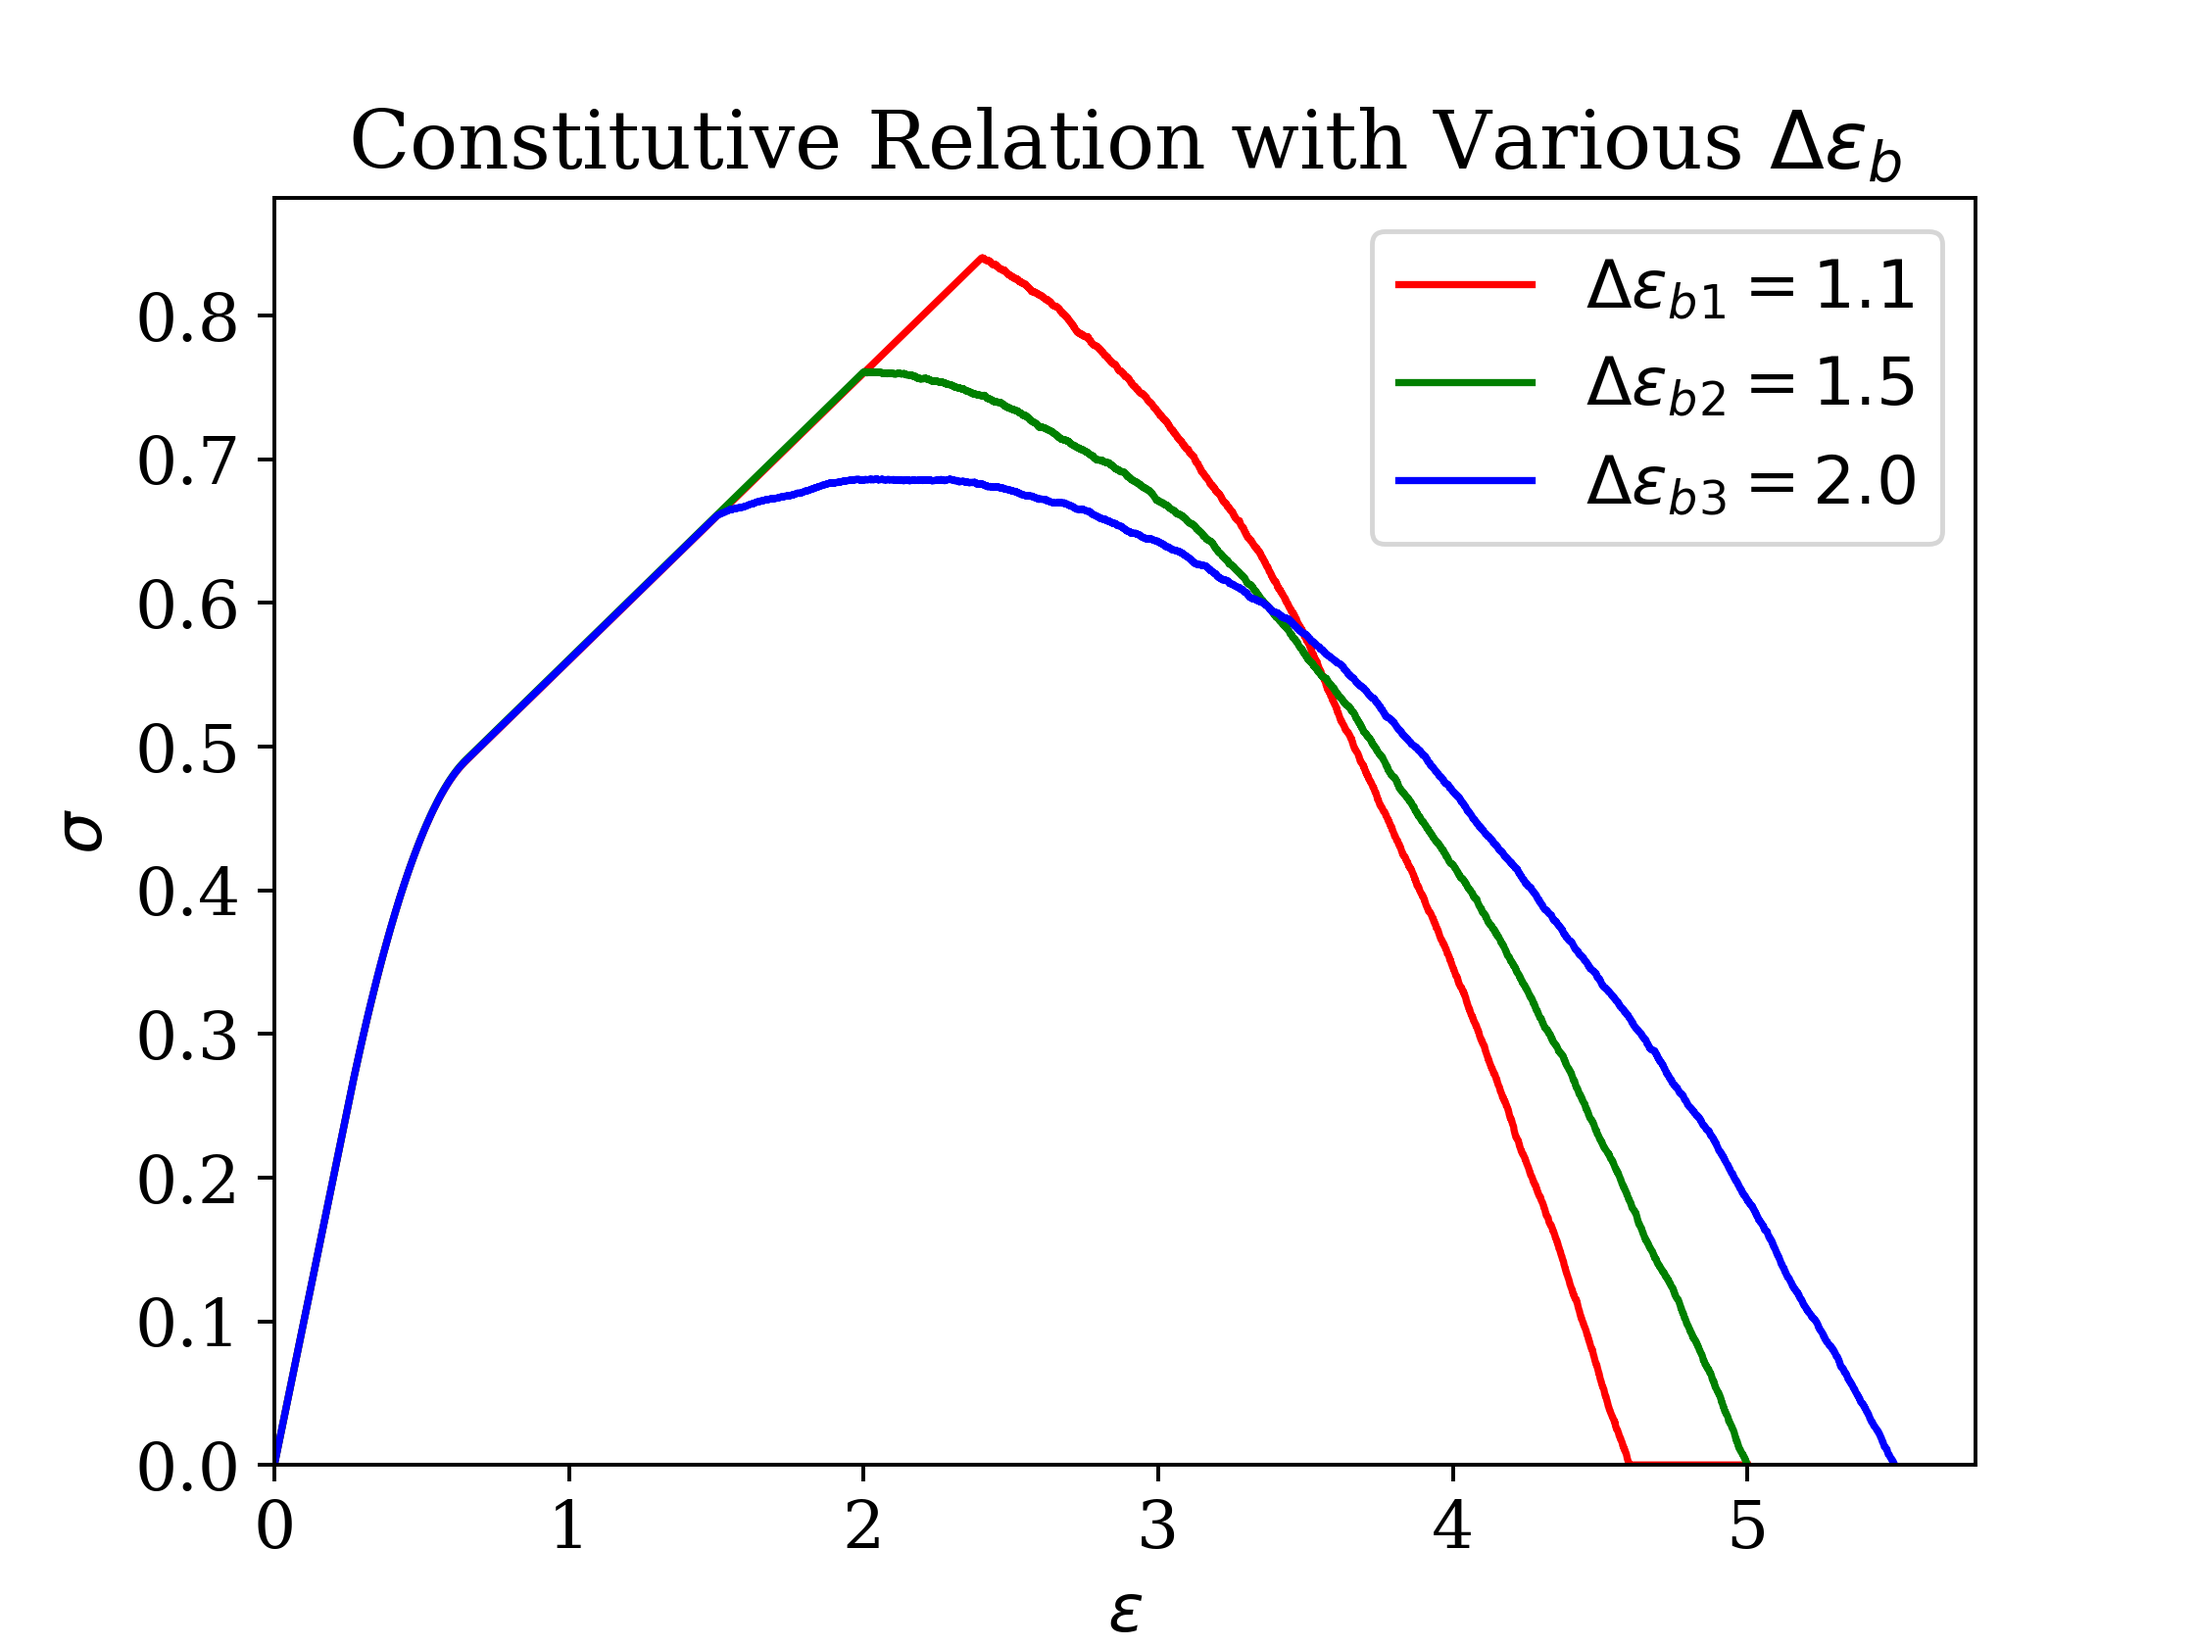
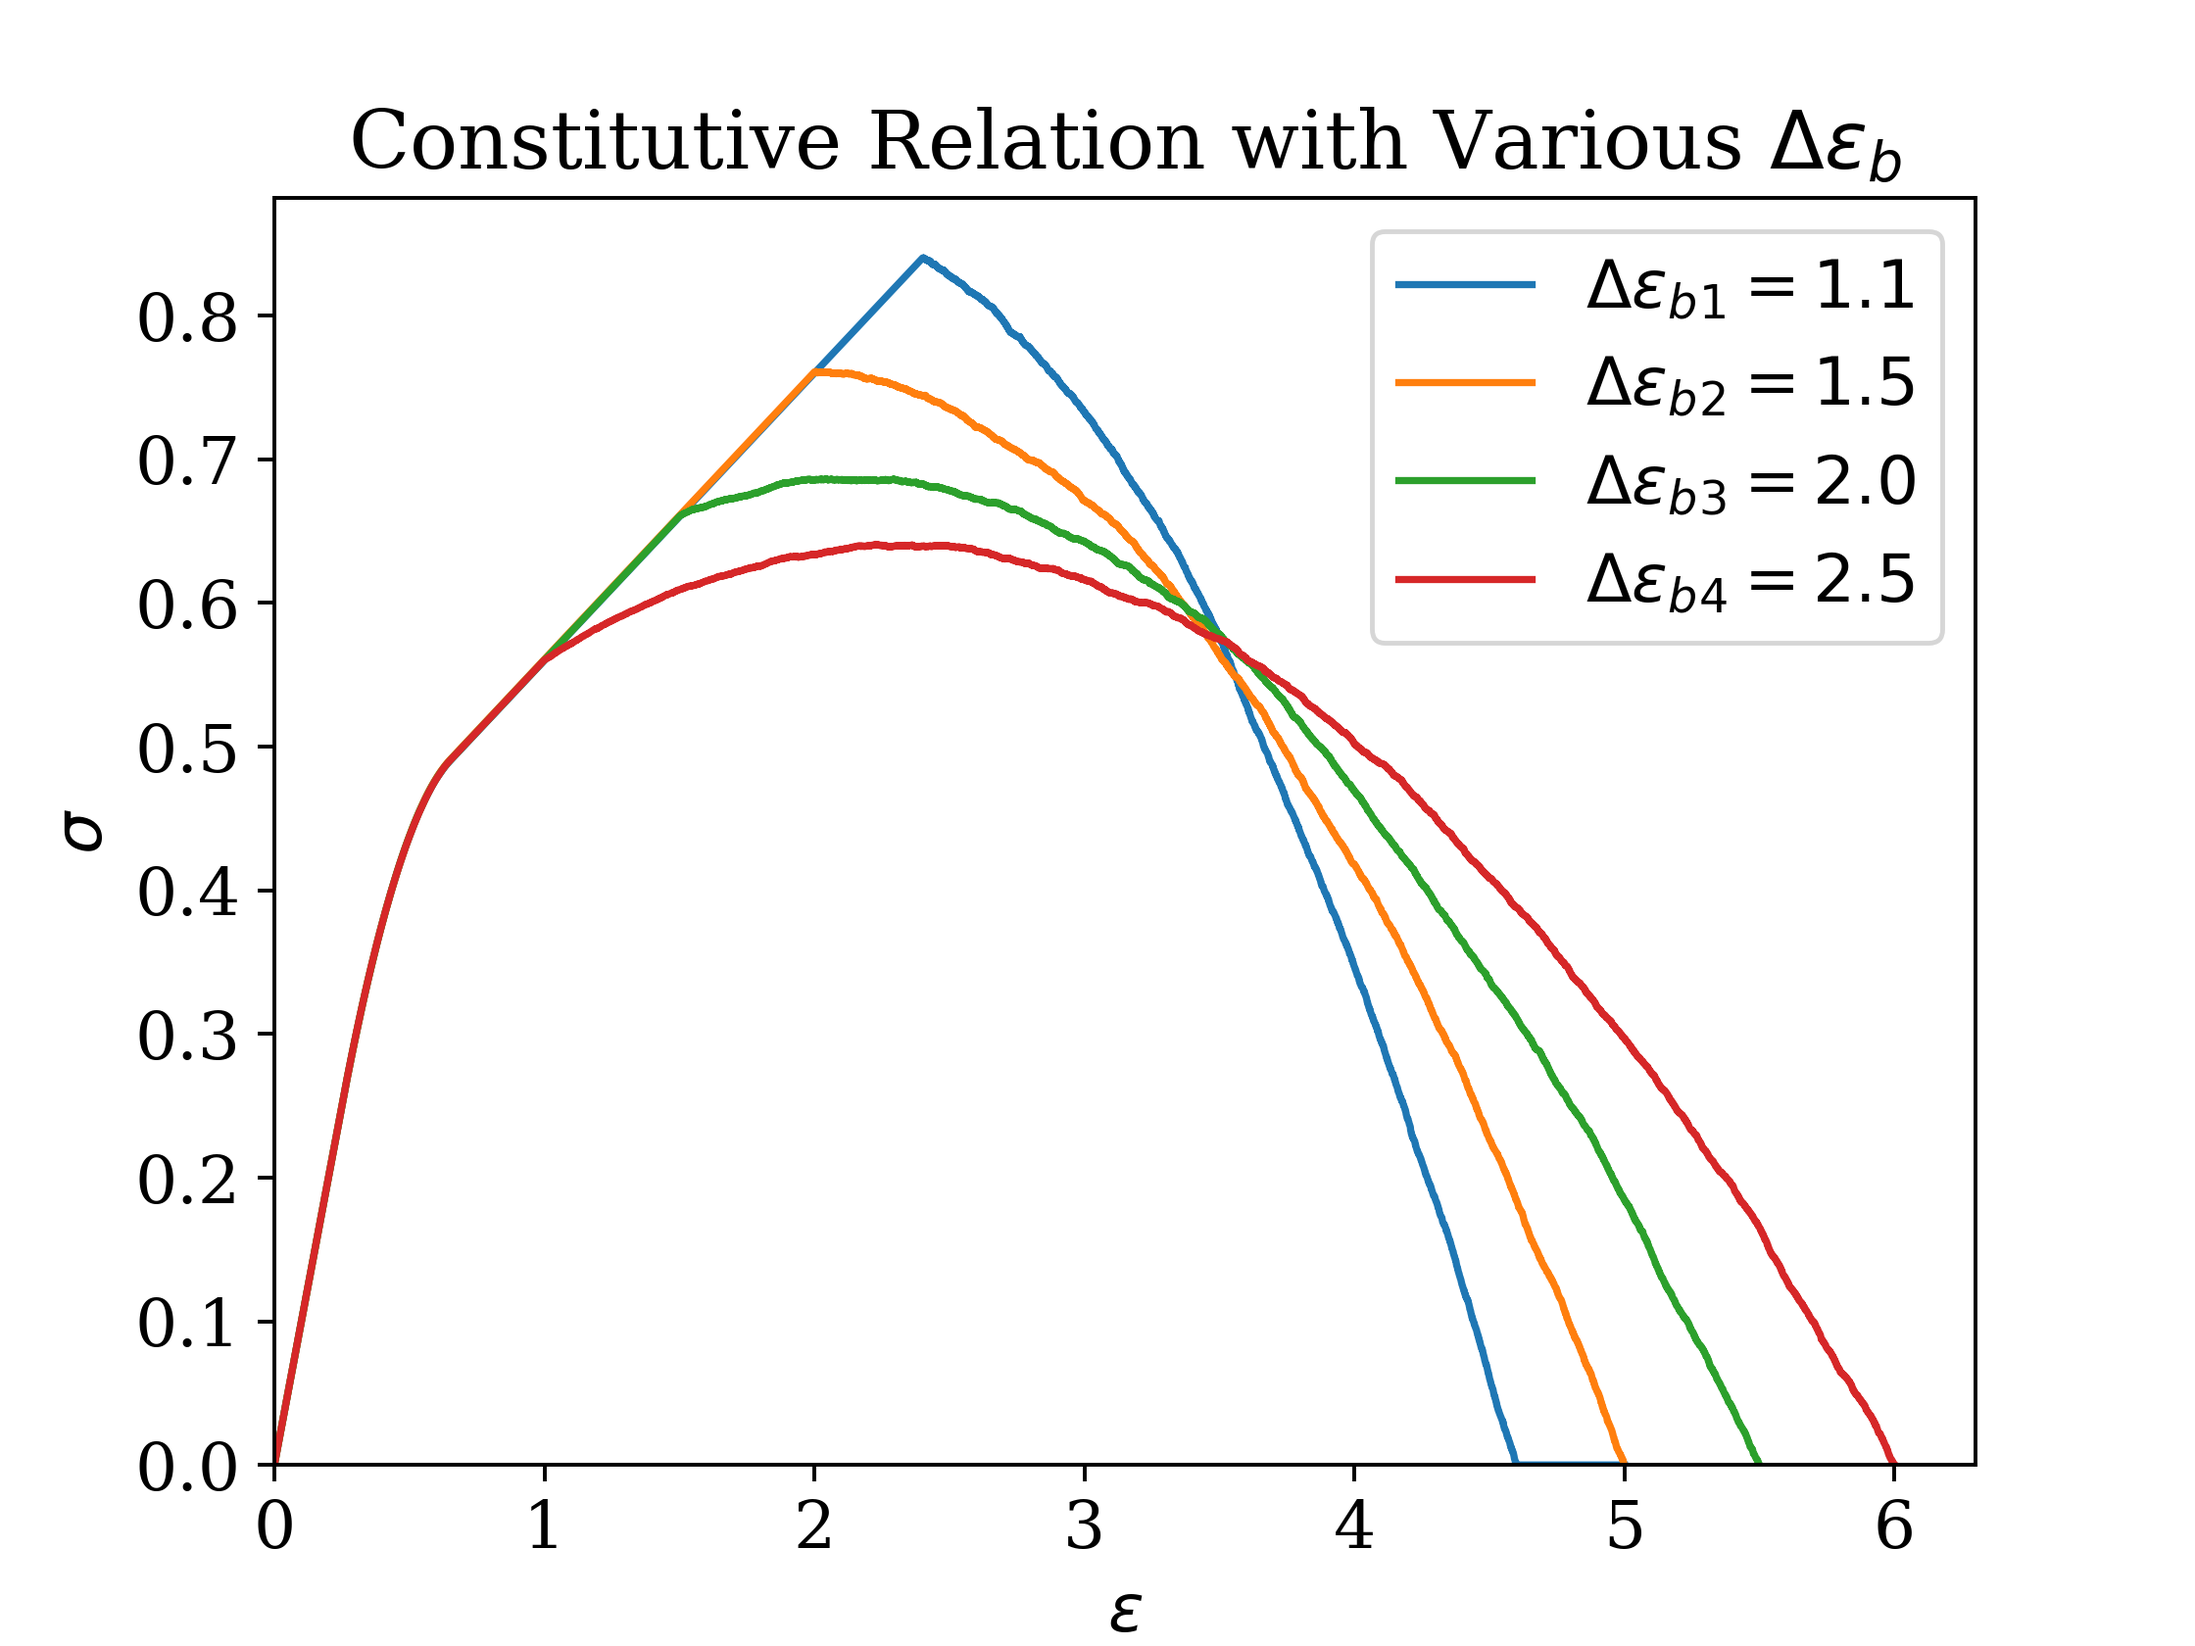
add 1 more value of de_b and modify constit(de_b).py to be more convenient.

diff --git a/with_plasticity/simulation/plotting/constit(de_b).py b/with_plasticity/simulation/plotting/constit(de_b).py
@@ -1,8 +1,13 @@
 import matplotlib.pyplot as plt
+import json
 import os  # for making output file's name the same as python file's name
 
 plt.rcParams["font.family"] = "serif"
 plt.rcParams["font.size"] = 14
+
+# Read configuration
+# with open("config.json", "r") as file:
+#     config = json.load(file)
 
 # Function to read data from a file
 def read_data(file_path):
@@ -13,20 +18,19 @@ def read_data(file_path):
             data.append((float(x), float(y)))
     return data
 
-# Read data from input files
-data1 = read_data("../data/constit(de_b-1).txt")
-data2 = read_data("../data/constit(de_b-2).txt")
-data3 = read_data("../data/constit(de_b-3).txt")
-
-# Get values of x and y for each dataset
-x_values1, y_values1 = zip(*data1) 
-x_values2, y_values2 = zip(*data2)
-x_values3, y_values3 = zip(*data3)
+# List of input files and corresponding labels
+input_files = [
+    ("../data/constit(de_b-1).txt", r"$\Delta {\epsilon_b}_1=1.1$"),
+    ("../data/constit(de_b-2).txt", r"$\Delta {\epsilon_b}_2=1.5$"),
+    ("../data/constit(de_b-3).txt", r"$\Delta {\epsilon_b}_3=2.0$"),
+    ("../data/constit(de_b-4).txt", r"$\Delta {\epsilon_b}_4=2.5$")
+]
 
 # Plot the data
-plt.plot(x_values1, y_values1, label=r"$\Delta {\epsilon_b}_1=1.1$", color="red")
-plt.plot(x_values2, y_values2, label=r"$\Delta {\epsilon_b}_2=1.5$", color="green")
-plt.plot(x_values3, y_values3, label=r"$\Delta {\epsilon_b}_3=2.0$", color="blue")
+for file_path, label in input_files:
+    data = read_data(file_path)
+    x_values, y_values = zip(*data)
+    plt.plot(x_values, y_values, label=label)
 
 # Add labels and title
 plt.xlabel(r"$\epsilon$")

diff --git a/with_plasticity/simulation/program/fbm.c b/with_plasticity/simulation/program/fbm.c
@@ -10,6 +10,7 @@
 #define de_b_1 1.1 // radius of the uniform distribution of e_b
 #define de_b_2 1.5
 #define de_b_3 2.0
+#define de_b_4 2.5
 #define alpha_1 0.2 // ratio of the elastic modulus of yielding fibers to E
 #define alpha_2 0.5
 #define alpha_3 0.8
@@ -35,7 +36,7 @@ int main()
     char filename[50];
 
     double alpha[3] = {alpha_1, alpha_2, alpha_3};
-    double de_breaking[3] = {de_b_1, de_b_2, de_b_3};
+    double de_breaking[4] = {de_b_1, de_b_2, de_b_3, de_b_4};
 
     for (int index = 0; index < 3; index++)
     {
@@ -51,7 +52,7 @@ int main()
         constitutive(e_y, de_y, e_b, de_breaking[0], alpha[index], constit);
     }
 
-    for (int index = 0; index < 3; index++)
+    for (int index = 0; index < 4; index++)
     {
         // intialize yielding[] and broken[]
         uniform(yielding, e_y, de_y, N);
